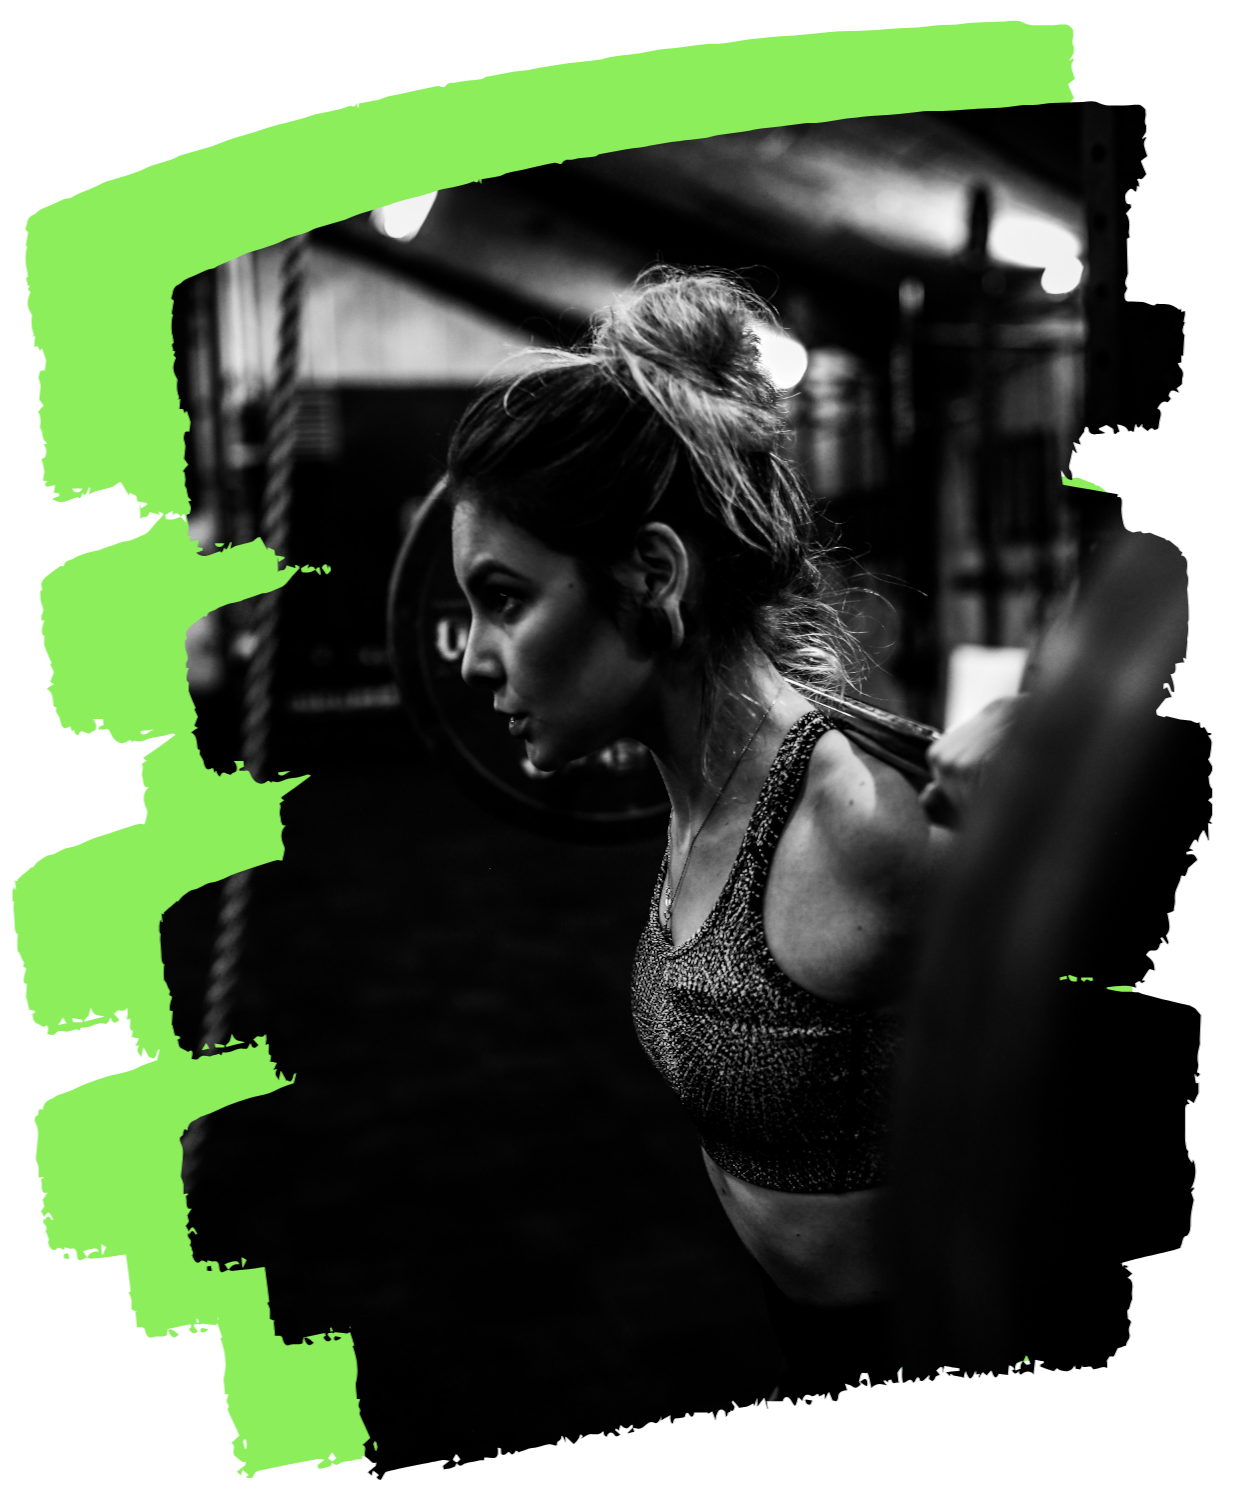
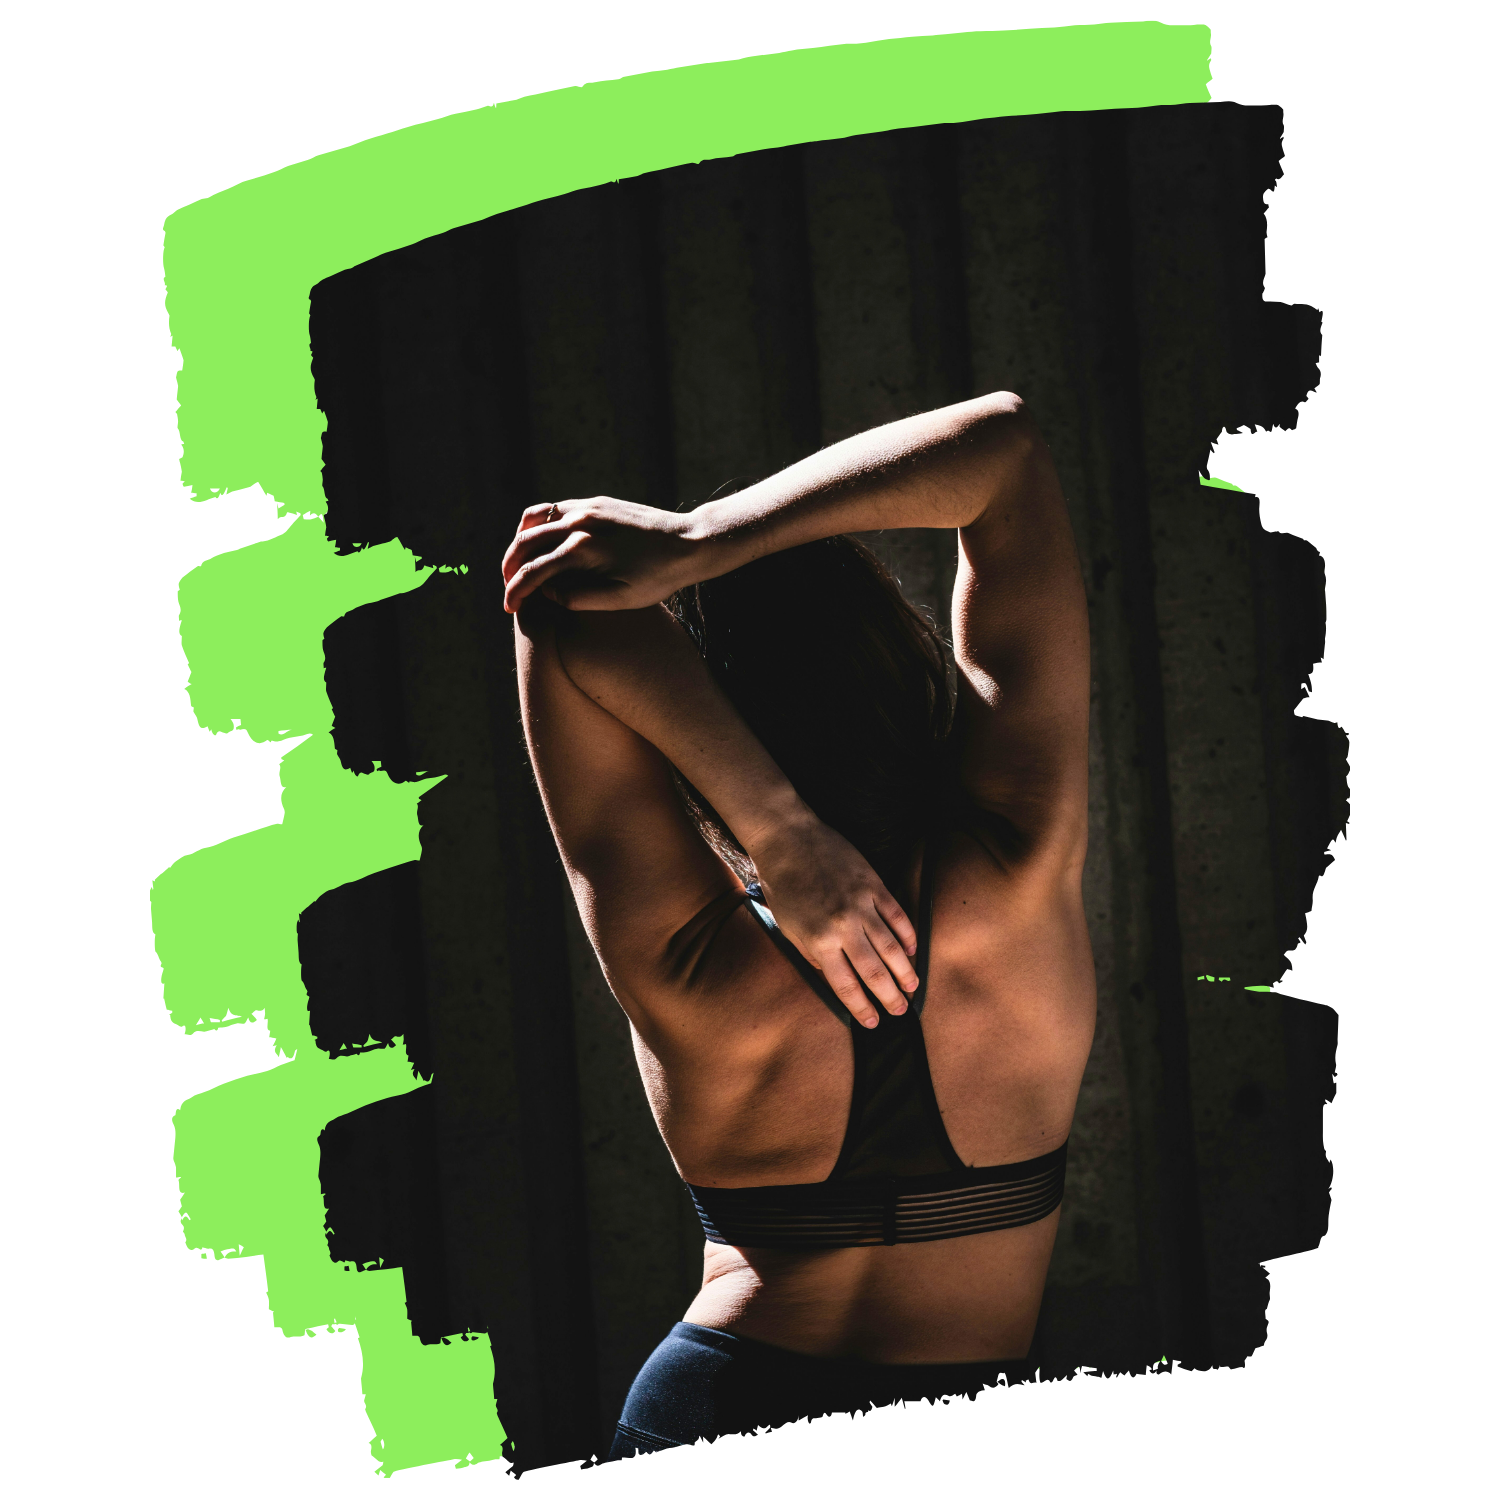
change pictures on homepage

diff --git a/src/components/Home/Home.jsx b/src/components/Home/Home.jsx
@@ -60,7 +60,7 @@ export default function Home() {
               Increase Movement Capabilities and Reduce Pain
             </div>
           </div>
-          <img src="/Pictures/drawing.jpg" alt="picture" id="hero-pic" />
+          <img src="/Pictures/homepage.png" alt="picture" id="hero-pic" />
         </div>
         <a onClick={getStarted}><button className="getstarted">Get Started</button></a>
       </section>
@@ -81,7 +81,7 @@ export default function Home() {
             <h4 className="cardinfo">Increase your overall energy and decrease stress with daily nutritional, sleep, and physical fitness guidance</h4>
           </div>
           <div className="card">
-            <img className="homepics" src="https://images.unsplash.com/photo-1539794830467-1f1755804d13?ixlib=rb-4.0.3&ixid=M3wxMjA3fDB8MHxzZWFyY2h8MjN8fGZpdG5lc3N8ZW58MHx8MHx8fDA%3D&auto=format&fit=crop&w=400&q=60" />
+            <img id="guy-lifting" className="homepics" src="/Pictures/samuel-girven-uO7dPRdkRlw-unsplash.jpg" />
             <img src="/Pictures/clipboard.png" alt="clipboard" className="shoe clipboard" />
             <h4 className="cardinfo">Work with a trainer to implement an individualized program that adapts to your weekly schedule, obstacles, and stressors</h4>
           </div>

diff --git a/src/App.css b/src/App.css
@@ -104,11 +104,12 @@ body {
 }
 #hero-pic{
     /* width: 400px; */
-    width: 425px;
+    /* width: 425px; */
+    width: 525px;
     height: 525px;
     position: absolute;
     /* right: 12%; */
-    right: 8%;
+    right: 5%;
     margin-top: -17%;
 }
 
@@ -149,6 +150,10 @@ body {
 .cardinfo {
     padding: 15px;
     color: var(--fontcolor);
+}
+
+#guy-lifting{
+
 }
 
 .card {
